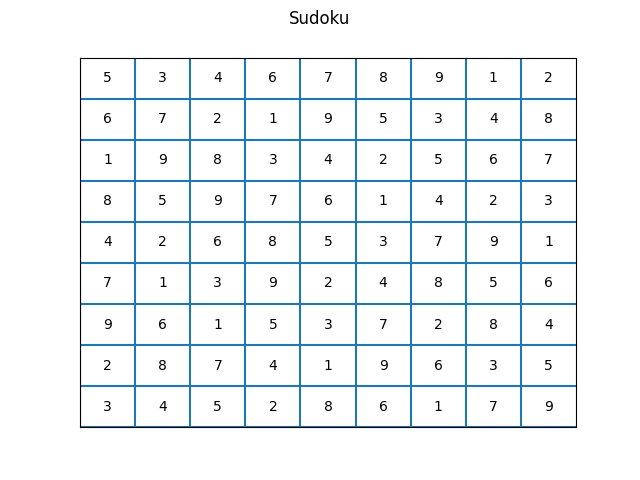
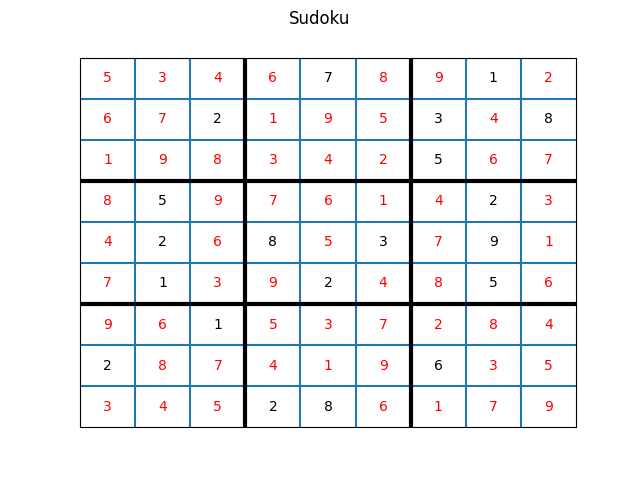
Improved visual output of SudokuSolver

diff --git a/SudokuSolver/SudokuSolver.py b/SudokuSolver/SudokuSolver.py
@@ -28,6 +28,7 @@ sudoku = ["030000000",
 class Sudoku:
     def __init__(self, lines):
         self.lines = []
+        self.input_coordinates = set()
         for line in lines:
             self.lines.append(list(map(lambda c: ord(c) - ord('0'), line)))
 
@@ -54,6 +55,7 @@ class Sudoku:
             for j in range(0, 9):
                 input_value = self.lines[i][j]
                 if input_value != 0:
+                    self.input_coordinates.add((i, j))
                     # Add constraint: Set lp variables of known values
                     for v in range(1, 10):
                         problem += lp_var_cells[i][j][v-1] == (1 if v == input_value else 0)
@@ -96,7 +98,8 @@ def plot_sudoku(s):
     fig, ax = plt.subplots()
     max_num = 9
     for i, j in itertools.product(list(range(0,max_num)), repeat=2):
-        ax.text(i+0.5,j+0.5,str(s.lines[8-j][i]), ha='center', va='center')
+        color_ = 'k' if (i, j) in s.input_coordinates else 'r'
+        ax.text(i+0.5,j+0.5,str(s.lines[8-j][i]), ha='center', va='center', color=color_)
 
     ax.axis([0, max_num, 0, max_num])
     for axis in [ax.xaxis, ax.yaxis]:
@@ -105,8 +108,12 @@ def plot_sudoku(s):
         axis.set_ticklabels("")
 
     for i in range(max_num):
-        ax.axhline(y=(i))
-        ax.axvline(x=(i))
+        if i % 3 != 0:
+            ax.axhline(y=(i), color='tab:blue')
+            ax.axvline(x=(i), color='tab:blue')
+    for i in (3, 6):
+        ax.axhline(y=(i), color='k', linewidth=3)
+        ax.axvline(x=(i), color='k', linewidth=3)
 
     title = "Sudoku"
     fig.suptitle(title)
